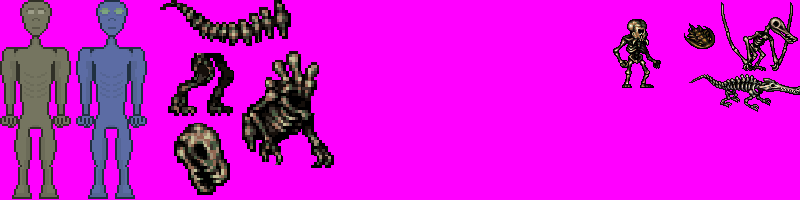
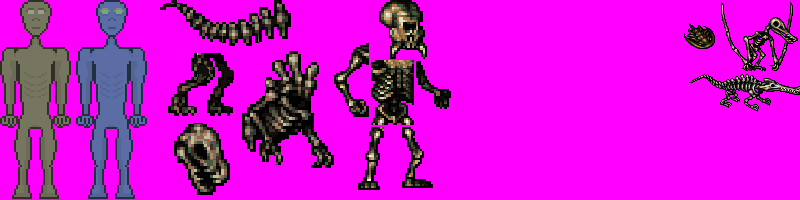
add cyclops parts

Changed region(s): [[0.4062, 0.0, 0.5625, 0.96], [0.75, 0.09, 0.8438, 0.45]]

diff --git a/src/view.py b/src/view.py
@@ -37,6 +37,13 @@ PARTS_RECT = {
     'trex head': (174,123,56,72),
     'trex tail': (160,0,131,46),
     'trex legs': (168,53,66,63),
+
+    'cyclops torso': (371,60,43,65),
+    'cyclops skull': (379,0,48,59),
+    'cyclops right arm': (334,43,35,74),
+    'cyclops left arm': (416,61,35,48),
+    'cyclops right leg': (358,127,26,63),
+    'cyclops left leg': (402,127,31,61),
 }
 
 UFO_RECT = (6,6,88,88)

diff --git a/src/const.py b/src/const.py
@@ -15,7 +15,10 @@ LEVEL_PARTS = {
         'alien left leg', 'alien right leg',
         ),
     3: ('trex torso', 'trex head', 'trex tail', 'trex legs'),
-
+    4: ('cyclops torso', 'cyclops skull', 
+        'cyclops right arm', 'cyclops left arm', 
+        'cyclops right leg', 'cyclops left leg',
+        )
     
 }
 
